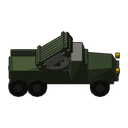
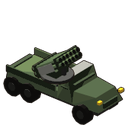
Nebelwerfer: readable cameo, flat fast rockets, 1-3 rocket volleys
Cameo: #train-nebelwerfer was missing from the train buttons that get
background-size: cover, so the art sat tiny under the dark gradient. Add it,
and ship a brightened 3/4 (ESE) cameo from render_nebelwerfer.py
(--cameo-only) instead of the runtime-composed dark side view.

Flight: rockets now fly like the Titan's — t(15) tiles/s on a shallow arc
(apex 6-16 instead of 30-90) — and, like every rocket, burst on a hull,
wall, or tree they meet. The separate lobbed stepper is folded into
stepRocket.

Salvo: new RocketRackDef volleyMax / intervalJitter. Each launch sends a
random 1-3 rockets (seeded sim RNG), 0.1-0.3 s apart, so the twelve leave in
about a second, never all at once. Titan and Rocketer racks are unchanged
(volleyMax 1, no jitter, no extra RNG draws).

diff --git a/gridlock/packages/shared/src/sim/nebelwerfer.test.ts b/gridlock/packages/shared/src/sim/nebelwerfer.test.ts
@@ -4,6 +4,8 @@ import {
   AIR_CRUISE_ALT,
   catalog,
   fires,
+  MORTAR_APEX_NEAR,
+  MORTAR_FLIGHT_FAR,
   MORTAR_RANGE_TILES,
   NEBELWERFER_MIN_RANGE_TILES,
   NEBELWERFER_RANGE_TILES,
@@ -117,7 +119,8 @@ function rocketAt(state: MatchState, ownerId: string, x: number, y: number, rack
   });
 }
 
-const SALVO_TICKS = Math.ceil((NEBELWERFER_SALVO * NEBELWERFER_ROCKET.interval) / TICK_DT) + 20;
+const SALVO_TICKS =
+  Math.ceil((NEBELWERFER_SALVO * (NEBELWERFER_ROCKET.interval + (NEBELWERFER_ROCKET.intervalJitter ?? 0))) / TICK_DT) + 20;
 
 describe("nebelwerfer", () => {
   it("is an Armory rocket truck with twelve tubes and five salvos", () => {
@@ -137,7 +140,7 @@ describe("nebelwerfer", () => {
     assert.ok((def.turretTurnDegPerSec ?? 0) > 0, "the frame traverses");
   });
 
-  it("ripples all twelve one after another, then reloads", () => {
+  it("empties the frame in about a second, one to three rockets at a time, then reloads", () => {
     const { state, y } = range();
     const n = launcher(state, 30, y);
     const foe = dummy(state, "B", 30 + 60, y);
@@ -145,10 +148,19 @@ describe("nebelwerfer", () => {
     applyCommand(state, "A", { type: "cmd.attack", ids: [n.id], targetId: foe.id });
     const seen = watchLaunches(state, n, SALVO_TICKS);
     assert.equal(seen.size, NEBELWERFER_SALVO, "one full salvo");
-    const at = [...seen.values()].sort((p, q) => p - q);
-    assert.equal(new Set(at).size, NEBELWERFER_SALVO, "no two rockets leave in the same tick");
-    const gap = Math.round(NEBELWERFER_ROCKET.interval / TICK_DT);
-    for (let i = 1; i < at.length; i++) assert.ok(Math.abs(at[i]! - at[i - 1]! - gap) <= 1, `gap ${at[i]! - at[i - 1]!}`);
+    const perTick = new Map<number, number>();
+    for (const t of seen.values()) perTick.set(t, (perTick.get(t) ?? 0) + 1);
+    const volleys = [...perTick.entries()].sort((p, q) => p[0] - q[0]);
+    for (const [, k] of volleys) assert.ok(k >= 1 && k <= (NEBELWERFER_ROCKET.volleyMax ?? 1), `volley of ${k}`);
+    assert.ok(volleys.length >= NEBELWERFER_SALVO / 3 && volleys.length < NEBELWERFER_SALVO, `${volleys.length} launches`);
+    assert.ok(volleys.some(([, k]) => k > 1), "some rockets leave together");
+    const maxGap = Math.round((NEBELWERFER_ROCKET.interval + (NEBELWERFER_ROCKET.intervalJitter ?? 0)) / TICK_DT);
+    for (let i = 1; i < volleys.length; i++) {
+      const gap = volleys[i]![0] - volleys[i - 1]![0];
+      assert.ok(gap >= 1 && gap <= maxGap + 1, `gap ${gap} ticks`);
+    }
+    const span = (volleys[volleys.length - 1]![0] - volleys[0]![0]) * TICK_DT;
+    assert.ok(span <= 2.5, `whole salvo out in ${span.toFixed(1)}s`);
     assert.equal(n.rockets, NEBELWERFER_ROCKET_AMMO - NEBELWERFER_SALVO);
     const me = snapshotFor(state, "A").entities.find((e) => e.id === n.id);
     assert.equal(me?.rockets, NEBELWERFER_ROCKET_AMMO - NEBELWERFER_SALVO);
@@ -229,33 +241,34 @@ describe("nebelwerfer", () => {
     assert.equal(seen.size, 0, `target ${near} tiles away is too close`);
   });
 
-  it("fires far past its own eyes on what a spotter sees, over a hill", () => {
+  it("fires far past its own eyes on what a spotter sees, fast and on a flat arc", () => {
     const { state, y } = range();
     const n = launcher(state, 30, y);
     const far = NEBELWERFER_RANGE_TILES - 4;
-    // A ridge between the truck and the target.
-    for (let gy = y - 8; gy <= y + 8; gy++) {
-      for (let gx = 60; gx <= 66; gx++) state.heights[gy * state.width + gx] = 12;
-    }
     const foe = dummy(state, "B", 30 + far, y);
     applyCommand(state, "A", { type: "cmd.attack", ids: [n.id], targetId: foe.id });
     watchLaunches(state, n, 20);
     // No spotter yet: auto-fire drops what the side cannot see, but a player's order still stands.
     dummy(state, "A", 30 + far - 3, y + 2);
+    // Watch a rocket from the tick it leaves the tube.
+    const old = new Set(rocketsFrom(state, n).map((p) => p.id));
     let salvo: ReturnType<typeof rocketsFrom> = [];
-    for (let i = 0; i < SALVO_TICKS && salvo.length === 0; i++) {
+    for (let i = 0; i < SALVO_TICKS + Math.ceil(NEBELWERFER_ROCKET.reload / TICK_DT) && salvo.length === 0; i++) {
       step(state, TICK_DT);
-      salvo = rocketsFrom(state, n);
+      salvo = rocketsFrom(state, n).filter((p) => !old.has(p.id));
     }
     assert.ok(salvo.length > 0, "the rockets go out to full reach");
     const r = salvo[0]!;
-    assert.ok((r.apex ?? 0) > 0, "lobbed, not straight");
-    let peak = r.z ?? 0;
+    const z0 = r.z ?? 0;
+    assert.ok((r.apex ?? 0) > 0, "a slight arc");
+    assert.ok((r.apex ?? 0) <= MORTAR_APEX_NEAR / 2, `far flatter than a mortar lob (apex ${r.apex})`);
+    assert.ok((r.flightTime ?? 99) < MORTAR_FLIGHT_FAR, `fast (flight ${r.flightTime}s)`);
+    let peak = z0;
     for (let i = 0; i < 60 && state.projectiles.includes(r); i++) {
       step(state, TICK_DT);
-      peak = Math.max(peak, r.z ?? 0);
+      if (state.projectiles.includes(r)) peak = Math.max(peak, r.z ?? 0);
     }
-    assert.ok(peak > 12 * 2, `climbs over the ridge (peak ${peak})`);
+    assert.ok(peak > z0 && peak - z0 <= (r.apex ?? 0) + 1, `rises a little over its line (peak ${peak}, from ${z0})`);
     assert.equal(state.projectiles.includes(r), false, "it bursts at the far end");
     assert.ok(Math.abs(r.x - foe.x) < NEBELWERFER_ROCKET.scatterFarTiles * state.tileSize * 1.3, "lands near the target");
   });

diff --git a/gridlock/packages/shared/src/sim/combat.ts b/gridlock/packages/shared/src/sim/combat.ts
@@ -843,7 +843,11 @@ function podAim(state: MatchState, e: Entity): { x: number; y: number; target?: 
   return null;
 }
 
-/** One rocket of the salvo at the rack's aim point, then the rack's clock. */
+/**
+ * One launch of the salvo at the rack's aim point, then the rack's clock. A rack
+ * with volleyMax sends a random 1..volleyMax rockets together, never more than
+ * the salvo or the rack has left.
+ */
 function fireRockets(
   state: MatchState,
   e: Entity,
@@ -855,16 +859,23 @@ function fireRockets(
   target: Entity | undefined,
 ): void {
   if (!e.rocketSalvo) e.rocketSalvo = Math.min(rack.salvo, e.rockets ?? 0);
-  const slot = e.rocketSalvo;
-  // Pods sit either side of the torso; the ripple alternates left and right.
-  // A launcher frame walks across its six columns of tubes instead.
-  const side = rack.laid
-    ? ((((slot - 1) % 6) - 2.5) / 2.5) * e.radius * 0.35
-    : (slot % 2 === 0 ? 1 : -1) * e.radius * 0.8;
-  launchRocket(state, e, rack, aimX, aimY, range, dist, target, side);
-  e.rockets = Math.max(0, (e.rockets ?? 0) - 1);
-  e.rocketSalvo = e.rockets > 0 ? e.rocketSalvo - 1 : 0;
-  e.rocketCooldown = e.rocketSalvo > 0 ? rack.interval : rack.reload;
+  const most = rack.volleyMax ?? 1;
+  const roll = most > 1 ? 1 + Math.floor(nextRand(state) * most) : 1;
+  const volley = Math.max(1, Math.min(roll, e.rocketSalvo, e.rockets ?? 0));
+  for (let i = 0; i < volley; i++) {
+    const slot = e.rocketSalvo;
+    // Pods sit either side of the torso; the ripple alternates left and right.
+    // A launcher frame walks across its six columns of tubes instead.
+    const side = rack.laid
+      ? ((((slot - 1) % 6) - 2.5) / 2.5) * e.radius * 0.35
+      : (slot % 2 === 0 ? 1 : -1) * e.radius * 0.8;
+    launchRocket(state, e, rack, aimX, aimY, range, dist, target, side);
+    e.rockets = Math.max(0, (e.rockets ?? 0) - 1);
+    e.rocketSalvo = e.rockets > 0 ? e.rocketSalvo - 1 : 0;
+    if (e.rocketSalvo <= 0) break;
+  }
+  const jitter = (rack.intervalJitter ?? 0) > 0 ? nextRand(state) * (rack.intervalJitter ?? 0) : 0;
+  e.rocketCooldown = e.rocketSalvo > 0 ? rack.interval + jitter : rack.reload;
 }
 
 /**
@@ -943,7 +954,7 @@ function launchRocket(
   });
 }
 
-/** Arc fields for a rack that lobs: peak grows with the shot, like a mortar bomb's. */
+/** Arc fields for a rack whose rockets arc: the peak over the straight line grows with the shot. */
 function lob(rack: RocketRackDef, dist: number, range: number, z0: number): Pick<Projectile, "apex" | "launchZ"> {
   if (rack.apexFar == null) return {};
   const near = rack.apexNear ?? rack.apexFar;
@@ -951,18 +962,23 @@ function lob(rack: RocketRackDef, dist: number, range: number, z0: number): Pick
   return { apex: near + (rack.apexFar - near) * u, launchZ: z0 };
 }
 
-/** Advance a rocket along its straight line, or its lob. True while it is still flying. */
+/** Advance a rocket along its straight line, or its shallow arc. True while it is still flying. */
 function stepRocket(state: MatchState, p: Projectile, dt: number, rand: () => number): boolean {
-  if (p.apex != null) return stepLobbedRocket(state, p, dt, rand);
   const x0 = p.x;
   const y0 = p.y;
   const z0 = p.z ?? 0;
   const stepDt = p.life > 0 ? Math.min(dt, p.life) : 0;
   p.x += p.vx * stepDt;
   p.y += p.vy * stepDt;
-  p.z = z0 + (p.vz ?? 0) * stepDt;
   p.life -= dt;
-  // It flies low and straight, so a hull, a wall, or a tree in the way takes the burst.
+  if (p.apex != null) {
+    const total = p.flightTime ?? Math.max(0.05, p.life + stepDt);
+    const u = Math.min(1, Math.max(0, (total - Math.max(0, p.life)) / total));
+    p.z = (p.launchZ ?? 0) + (p.vz ?? 0) * total * u + mortarAirZ(u, p.apex);
+  } else {
+    p.z = z0 + (p.vz ?? 0) * stepDt;
+  }
+  // It flies low and fast, so a hull, a wall, or a tree in the way takes the burst.
   const struck = nearestSweepHit(state, x0, y0, p, z0, p.z);
   const tree = nearestTreeSweep(state, x0, y0, p, z0, p.z, rand);
   const first = struck && (!tree || struck.t <= tree.t) ? struck : tree;
@@ -981,25 +997,6 @@ function stepRocket(state: MatchState, p: Projectile, dt: number, rand: () => nu
     p.y = p.landY;
   }
   if (!p.airBurst) p.z = 0;
-  detonateMortar(state, p, rand);
-  return false;
-}
-
-/** A lobbed rocket climbs over everything and bursts at its fused point on the ground. */
-function stepLobbedRocket(state: MatchState, p: Projectile, dt: number, rand: () => number): boolean {
-  const total = p.flightTime ?? Math.max(0.05, p.life);
-  const stepDt = p.life > 0 ? Math.min(dt, p.life) : 0;
-  p.x += p.vx * stepDt;
-  p.y += p.vy * stepDt;
-  p.life -= dt;
-  const u = Math.min(1, Math.max(0, (total - Math.max(0, p.life)) / total));
-  p.z = (p.launchZ ?? 0) + (p.vz ?? 0) * total * u + mortarAirZ(u, p.apex ?? 0);
-  if (p.life > 0) return true;
-  if (p.landX != null && p.landY != null) {
-    p.x = p.landX;
-    p.y = p.landY;
-  }
-  p.z = 0;
   detonateMortar(state, p, rand);
   return false;
 }

diff --git a/gridlock/packages/shared/src/catalog.ts b/gridlock/packages/shared/src/catalog.ts
@@ -266,8 +266,12 @@ export const TITAN_ROCKET = {
 export interface RocketRackDef {
   /** Rockets in one salvo. */
   salvo: number;
-  /** Seconds between rockets inside one salvo. */
+  /** Seconds between launches inside one salvo. */
   interval: number;
+  /** Extra seconds added to `interval` at random after each launch. Default 0. */
+  intervalJitter?: number;
+  /** Most rockets leaving together in one launch; each launch rolls 1..volleyMax. Default 1. */
+  volleyMax?: number;
   /** Seconds from the last rocket of a salvo to the first of the next. */
   reload: number;
   /** Ground miss radius at point blank and at full reach, gameplay tiles. */
@@ -290,9 +294,9 @@ export interface RocketRackDef {
   /** Lays on planes in the air and on low drones. */
   antiAir: boolean;
   /**
-   * Peak of a lobbed rocket, elevation units, at point blank and at full reach.
-   * Omit for a rocket that flies straight and bursts on whatever it meets.
-   * A lobbed rocket climbs over hills, trees, and hulls to its fused point.
+   * Peak of an arcing rocket over its straight line, elevation units, at point
+   * blank and at full reach. Omit for a rocket that flies straight. Either way
+   * it bursts on a hull, wall, or tree it meets on the way.
    */
   apexNear?: number;
   apexFar?: number;
@@ -320,8 +324,9 @@ export const TITAN_ROCKET_RACK: RocketRackDef = {
 
 /**
  * Nebelwerfer: twelve tubes on an armored truck. It rolls into place, stops,
- * swings the frame onto the target, and ripples all twelve one after another.
- * Rockets lob high over the ground, so the crew fires on anything its side
+ * swings the frame onto the target, and empties the frame in about a second:
+ * one to three rockets at a time, never all twelve at once. The rockets fly
+ * fast on a flat arc like a Titan's, so the crew fires on anything its side
  * can see, far past its own eyes: the longest reach in the game. They scatter
  * wide and each burst is lighter than a Titan rocket — a salvo blankets an
  * area rather than finding one soldier. Five full salvos in the rack.
@@ -332,12 +337,14 @@ export const NEBELWERFER_SALVO = 12;
 export const NEBELWERFER_ROCKET_AMMO = NEBELWERFER_SALVO * 5;
 export const NEBELWERFER_ROCKET: RocketRackDef = {
   salvo: NEBELWERFER_SALVO,
-  interval: 0.25,
+  interval: 0.1,
+  intervalJitter: 0.2,
+  volleyMax: 3,
   reload: 16,
   scatterNearTiles: t(1.2),
   scatterFarTiles: t(3.4),
   splashTiles: t(1.5),
-  speed: t(10) * TILE_SIZE,
+  speed: t(15) * TILE_SIZE,
   podLift: 5,
   damage: 30,
   armorDamage: 6,
@@ -345,8 +352,8 @@ export const NEBELWERFER_ROCKET: RocketRackDef = {
   penetration: 22,
   caliber: 150,
   antiAir: false,
-  apexNear: 30,
-  apexFar: 90,
+  apexNear: 6,
+  apexFar: 16,
   minRangeTiles: NEBELWERFER_MIN_RANGE_TILES,
   laid: true,
 };
@@ -1992,7 +1999,7 @@ const ENTRIES: Record<EntityType, CatalogEntry> = {
     rockets: true,
     rocketAmmo: NEBELWERFER_ROCKET_AMMO,
     rocketRack: NEBELWERFER_ROCKET,
-    blurb: "Rocket artillery on an armored truck. Twelve tubes on a traversing frame, fired one after another in a three-second ripple. The rockets lob high over hills and trees, so it hits anything your side can see — the longest reach on the field, but it will not fire inside four tiles and its own eyes are short. It must stop and swing the frame onto the target before it fires. Rockets scatter wide: a salvo blankets an area, shreds infantry in the open, and only dents armor. Five salvos in the rack; a supply truck refills it. Switch the tubes off to hold fire. Thin plate — keep it behind the line.",
+    blurb: "Rocket artillery on an armored truck. Twelve tubes on a traversing frame, emptied in about a second, one to three rockets at a time. The rockets fly fast on a flat arc, so it hits anything your side can see — the longest reach on the field, but it will not fire inside four tiles, its own eyes are short, and a tank or tree in the path takes the rocket. It must stop and swing the frame onto the target before it fires. Rockets scatter wide: a salvo blankets an area, shreds infantry in the open, and only dents armor. Five salvos in the rack; a supply truck refills it. Switch the tubes off to hold fire. Thin plate — keep it behind the line.",
   },
   supply: {
     type: "supply",

diff --git a/gridlock/packages/client/src/style/ra-feel.css b/gridlock/packages/client/src/style/ra-feel.css
@@ -571,7 +571,7 @@ input[type="range"] { padding: 0; }
   background-image: var(--supply-cameo, url("../assets/units/supply-truck/hull/0001.png"));
 }
 .prod-job[data-type="nebelwerfer"] {
-  background-image: var(--nebelwerfer-cameo, url("../assets/units/nebelwerfer-cameo.png"));
+  background-image: url("../assets/units/nebelwerfer-cameo.png");
 }
 
 #map-canvas {
@@ -731,6 +731,7 @@ input[type="range"] { padding: 0; }
 #train-walker,
 #train-cyborg,
 #train-titan,
+#train-nebelwerfer,
 #train-supply,
 #train-stuka,
 #build-dynamo,
@@ -826,7 +827,7 @@ input[type="range"] { padding: 0; }
 #train-nebelwerfer {
   background-image:
     linear-gradient(90deg, rgba(18, 12, 8, 0.72) 0%, rgba(18, 12, 8, 0.28) 55%, rgba(18, 12, 8, 0.08) 100%),
-    var(--nebelwerfer-cameo, url("../assets/units/nebelwerfer-cameo.png"));
+    url("../assets/units/nebelwerfer-cameo.png");
 }
 .cameo-count {
   position: absolute;
@@ -1058,7 +1059,7 @@ input[type="range"] { padding: 0; }
 }
 .config-type[data-type="nebelwerfer"],
 .prod-job[data-type="nebelwerfer"] {
-  background-image: var(--nebelwerfer-cameo, url("../assets/units/nebelwerfer-cameo.png"));
+  background-image: url("../assets/units/nebelwerfer-cameo.png");
 }
 .config-type[data-type="rig"] { background-image: url("../assets/units/rig-cameo.png"); }
 .config-type[data-type="dynamo"] { background-image: url("../assets/buildings/dynamo-cameo.png"); }

diff --git a/gridlock/packages/client/src/render/turntable-sheet.ts b/gridlock/packages/client/src/render/turntable-sheet.ts
@@ -368,7 +368,9 @@ export function bindNebelwerferSheets(hullImage: HTMLImageElement, launcherImage
       nebelwerferPrevious = next;
       hullImage.src = next.sheetUrls[0] ?? "";
       launcherImage.src = next.sheetUrls[1] ?? "";
-      applyCameo(next.cameoUrl, "--nebelwerfer-cameo");
+      // No runtime cameo: the static nebelwerfer-cameo.png is a brightened 3/4 view
+      // that reads on the dark sidebar; the composed side view did not.
+      URL.revokeObjectURL(next.cameoUrl);
     })
     .catch((err) => {
       console.error("nebelwerfer turntable", err);

diff --git a/tools/sprites/render_nebelwerfer.py b/tools/sprites/render_nebelwerfer.py
@@ -155,17 +155,33 @@ def build_launcher() -> Mesh:
     return m
 
 
-def cameo(out: Path) -> None:
-    """Static fallback cameo (east, hull + launcher). The client also composes --nebelwerfer-cameo."""
-    hull = Image.open(out / "hull" / "0013.png").convert("RGBA")
-    hull.alpha_composite(Image.open(out / "launcher" / "0013.png").convert("RGBA"))
+# Cameo: a 3/4 front face (nose right, a little down) shows the cab and the whole
+# tube bundle; the flat side view read as a dark sliver on the dark sidebar.
+CAMEO_FACE = "0014"  # ESE: cab, bed, and the whole bundle survive the wide train button crop
+# The map's lighting is tuned for dirt; on the sidebar's near-black the olive
+# drowns. Lift it so it reads like the Titan's cameo. The outline stays dark.
+CAMEO_GAIN = 1.55
+CAMEO_LIFT = 0.04
+
+
+def cameo(out: Path, face: str = CAMEO_FACE, path: Path | None = None) -> None:
+    """Static cameo, hull + launcher, brightened and filling the 128 frame. The CSS uses it everywhere."""
+    hull = Image.open(out / "hull" / f"{face}.png").convert("RGBA")
+    hull.alpha_composite(Image.open(out / "launcher" / f"{face}.png").convert("RGBA"))
     crop = hull.crop(hull.getbbox())
-    size, pad = 128, 8
-    fit = min((size - 2 * pad) / crop.width, (size - 2 * pad) / crop.height)
+    px = np.asarray(crop).astype(np.float64) / 255
+    rgb = px[..., :3]
+    dark = rgb.max(axis=-1, keepdims=True) < 0.12  # outline and bores keep their ink
+    lifted = np.clip(rgb * CAMEO_GAIN + CAMEO_LIFT, 0, 1)
+    px[..., :3] = np.where(dark, rgb, lifted)
+    crop = Image.fromarray((px * 255 + 0.5).astype(np.uint8), "RGBA")
+    size, pad = 128, 3
+    fit = (size - 2 * pad) / max(crop.width, crop.height)
     small = crop.resize((max(1, round(crop.width * fit)), max(1, round(crop.height * fit))), Image.Resampling.LANCZOS)
     img = Image.new("RGBA", (size, size), (0, 0, 0, 0))
-    img.alpha_composite(small, ((size - small.width) // 2, (size - small.height) // 2))
-    path = out.parent / "nebelwerfer-cameo.png"
+    # Wheels on the bottom edge, like the other vehicle cameos.
+    img.alpha_composite(small, ((size - small.width) // 2, size - pad - small.height))
+    path = path or out.parent / "nebelwerfer-cameo.png"
     img.save(path)
     print("wrote", path)
 
@@ -174,8 +190,12 @@ def main() -> None:
     ap = argparse.ArgumentParser()
     ap.add_argument("--out", required=True, help="unit folder; writes hull/ and launcher/ inside it")
     ap.add_argument("--ss", type=int, default=4)
+    ap.add_argument("--cameo-only", action="store_true", help="rebuild the cameo from the sheets already in --out")
     args = ap.parse_args()
     out = Path(args.out)
+    if args.cameo_only:
+        cameo(out)
+        return
     common = dict(scale_frac=SCALE_FRAC, z_mid=Z_MID, cy_frac=CY_FRAC, ss=args.ss)
     render_turntable(build_hull(), out / "hull", "nebelwerfer_hull", "nebelwerfer-hull.json", **common)
     render_turntable(build_launcher(), out / "launcher", "nebelwerfer_launcher", "nebelwerfer-launcher.json", **common)

diff --git a/gridlock/README.md b/gridlock/README.md
@@ -14,7 +14,7 @@ The **Rocketer** (Muster) carries one launcher tube loaded with the Titan's rock
 
 The **Drone Op** (Muster) carries no gun. **Launch** puts his one quadcopter up, and it flies as its own unit, straight over everything, but only inside a ring around him (shown while either is selected); if he walks off, the drone is pulled along. **Surveillance** holds it high with wide sight, where only anti-air guns reach it: the MG42 and the gatlings (Walker, Cyborg, CIWS). **Search & Destroy** brings it low: it hunts the nearest enemy it can see inside his reach (or the target you give it), dives on it, and bursts. A soldier it lands on dies; on a tank it comes down through the roof. Down low, rifles, machine guns, a tank's coaxial MG, and the Titan's rockets reach it. Tank shells, mortars, and bombs never touch it. The battery lasts about seventy seconds; low on charge the drone flies back by itself (**Recall**, or right-click the operator, does it early) and he stows it to recharge. A drone that is shot down, runs flat, bursts on a target, or loses its operator is gone, and he takes over a minute to build the next one.
 
-The **Nebelwerfer** (Armory) is rocket artillery on a lightly armored truck, and the rockets are its only weapon: twelve tubes on a traversing frame. It must stand still and swing the frame onto the target, then it ripples all twelve one after another over three seconds and reloads for sixteen. The rockets lob high over hills, trees, and hulls, so it hits anything your side can see out to 24 cells — the longest reach on the field, far past its own short sight, so it needs a spotter — but it will not fire inside 4 cells. They scatter wide, and each burst is lighter than a Titan rocket: a salvo blankets an area, shreds infantry in the open, and only dents tanks. It never fires at aircraft or drones. The rack holds five salvos (60 rockets); a supply truck refills it, and the Config panel switches the tubes off to hold fire. A CIWS can shoot its rockets down.
+The **Nebelwerfer** (Armory) is rocket artillery on a lightly armored truck, and the rockets are its only weapon: twelve tubes on a traversing frame. It must stand still and swing the frame onto the target, then it empties the frame in about a second, one to three rockets at a time (never all twelve together), and reloads for sixteen. The rockets fly like a Titan's — fast, under the same hanging smoke trail, on only a slight arc — and a tank or tree in their path takes the burst. It hits anything your side can see out to 24 cells — the longest reach on the field, far past its own short sight, so it needs a spotter — but it will not fire inside 4 cells. They scatter wide, and each burst is lighter than a Titan rocket: a salvo blankets an area, shreds infantry in the open, and only dents tanks. It never fires at aircraft or drones. The rack holds five salvos (60 rockets); a supply truck refills it, and the Config panel switches the tubes off to hold fire. A CIWS can shoot its rockets down.
 
 Camera: fixed **2:1 isometric** (RA2 / Sudden Strike 2 feel). **Arrow keys**, **W**/**D**, or middle-mouse drag pan in screen space (**A** and **S** are orders). **H** homes on your HQ. **+** / **−** change game speed (1×–5×, host only). Select the Rig and press **E**, or click it twice, to unpack a Core. Hovering a unit with a ready special swaps the crosshair for a gold pointer. Specials have a cooldown (2s for deploy/pack). Shared orders: **R** rotate (face a point), **G** guard (click and drag to face), **S** stop, **A** attack-move (halt to fire, then keep going), hold **Ctrl** and click to force-attack a point or any unit including friendlies. Guard overwatch: units group there, hold, and fire 360°, but enemies in the cone are engaged first.
 
